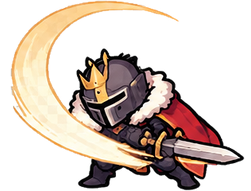
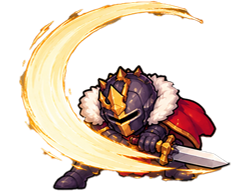
update

diff --git a/js/game.js b/js/game.js
@@ -277,6 +277,22 @@
                 ? chapter1BossRushChargeSprite : chapter1BossRushDashSprite;
         }
     }
+    // 集氣期間把整張角色圖由原色逐漸染成強烈紅色，並同步增強紅色外發光。
+    // progress 範圍為 0..1；只處理 Boss 精靈本身，不改變尺寸、位置或碰撞判定。
+    function setBossChargeRedGlow(e,progress) {
+        const sprite=e?.querySelector('.enemySprite');
+        if(!sprite)return;
+        const p=Math.max(0,Math.min(1,Number(progress)||0));
+        const glow1=(2+18*p).toFixed(1);
+        const glow2=(1+28*p).toFixed(1);
+        const alpha1=(0.03+0.78*p).toFixed(2);
+        const alpha2=(0.01+0.48*p).toFixed(2);
+        sprite.style.filter=`grayscale(${(0.55*p).toFixed(3)}) sepia(${p.toFixed(3)}) saturate(${(1+7*p).toFixed(2)}) hue-rotate(${(-42*p).toFixed(1)}deg) brightness(${(1+0.13*p).toFixed(3)}) drop-shadow(0 0 ${glow1}px rgba(255, 0, 28, ${alpha1})) drop-shadow(0 0 ${glow2}px rgba(255, 0, 20, ${alpha2}))`;
+    }
+    function clearBossChargeRedGlow(e) {
+        const sprite=e?.querySelector('.enemySprite');
+        if(sprite)sprite.style.removeProperty('filter');
+    }
     // 第一章 Boss 的原始立繪本身朝左；enemy-facing-left 會水平翻轉立繪，因此不能用「移動方向」直接決定回場時的朝向。
     function faceBossTowardHero(e) {
         if(!e)return;
@@ -360,6 +376,7 @@
         e.classList.add('boss-rushing');
         const sprite=e.querySelector('.enemySprite');
         setBossRushSprite(sprite,'windup');
+        setBossChargeRedGlow(e,0);
         e.dataset.actionUntil=String(performance.now()+2500);
         floatText('Boss 絕技！',originX,47);
     }
@@ -393,6 +410,7 @@
         const e=bossRush.boss;
         if(e && e.isConnected) {
             e.classList.remove('boss-rushing');
+            clearBossChargeRedGlow(e);
             e.style.removeProperty('opacity');
             e.style.removeProperty('visibility');
             if(!e.classList.contains('dead')) {
@@ -459,11 +477,18 @@
             return;
         }
         if(bossRush.phase==='windup' || bossRush.phase==='windup2') {
-            if(now-bossRush.phaseStartedAt<2500)return;
+            // 第二次集氣期間持續依玩家實際位置調整朝向，不沿用第一次衝刺的最後方向。
+            if(bossRush.phase==='windup2')faceBossTowardHero(e);
+            const chargeElapsed=Math.max(0,now-bossRush.phaseStartedAt);
+            // 2.5 秒集氣過程逐幀由 0% 漸變到 100%；最後一小段提前到達滿紅，確保滿紅效果可見。
+            const chargeProgress=Math.min(1,chargeElapsed/2400);
+            setBossChargeRedGlow(e,chargeProgress);
+            if(chargeElapsed<2500)return;
             bossRush.phase=bossRush.phase==='windup'?'dashOut':'dashAcross';
             bossRush.phaseStartedAt=now;
             bossRush.targetX=bossRush.phase==='dashOut'?bossRush.targetX:(bossRush.targetX===bossRush.leftX?bossRush.rightX:bossRush.leftX);
-            // 集氣結束、Boss 開始衝刺的同一刻，切換成 skin 1。
+            // 集氣滿紅後切換衝刺圖，立即移除紅色染色與光暈，避免影響衝刺造型。
+            clearBossChargeRedGlow(e);
             if(bossRush.phase==='dashOut'||bossRush.phase==='dashAcross') {
                 setBossRushSprite(e.querySelector('.enemySprite'),bossRush.phase);
             }
@@ -503,8 +528,11 @@
         if(Math.abs(diff)>step)return;
         if(bossRush.phase==='dashOut') {
             shakeBossCamera();bossRush.phase='windup2';bossRush.phaseStartedAt=now;
-            // 第二次衝刺前重新集氣，切回 skin2。
+            // 進入第二次集氣時立刻面向玩家，避免沿用剛才衝刺方向而背對玩家。
+            faceBossTowardHero(e);
+            // 第二次衝刺前重新集氣，切回 skin2，紅色發光從 0% 再次漸增。
             setBossRushSprite(e.querySelector('.enemySprite'),'windup2');
+            setBossChargeRedGlow(e,0);
             e.dataset.actionUntil=String(now+2500);
         } else if(bossRush.phase==='dashAcross') {
             // 不再隱藏 Boss：第二次衝刺完成後，直接在畫面內走回戰鬥位置。
@@ -518,6 +546,7 @@
             bossRush.boss.style.removeProperty('opacity');
             bossRush.boss.style.removeProperty('visibility');
             const sprite=bossRush.boss.querySelector('.enemySprite');
+            clearBossChargeRedGlow(bossRush.boss);
             if(sprite)sprite.src=enemySpritePath(bossRush.boss.dataset.spriteType||'boss','idle');
         }
         clearTimeout(bossRush.nextTimer);bossRush.nextTimer=0;bossRush.cooldownUntil=0;
